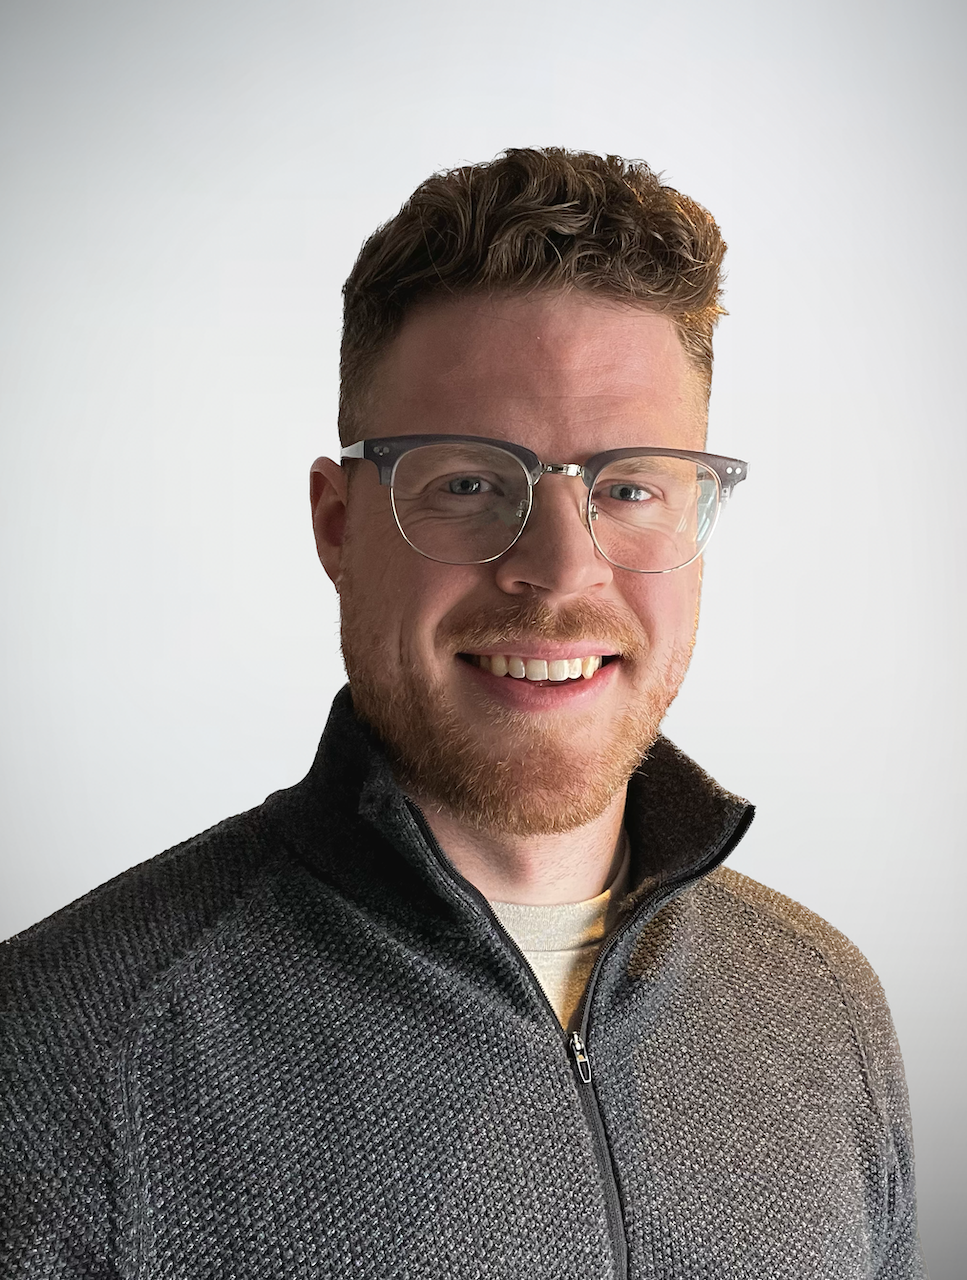
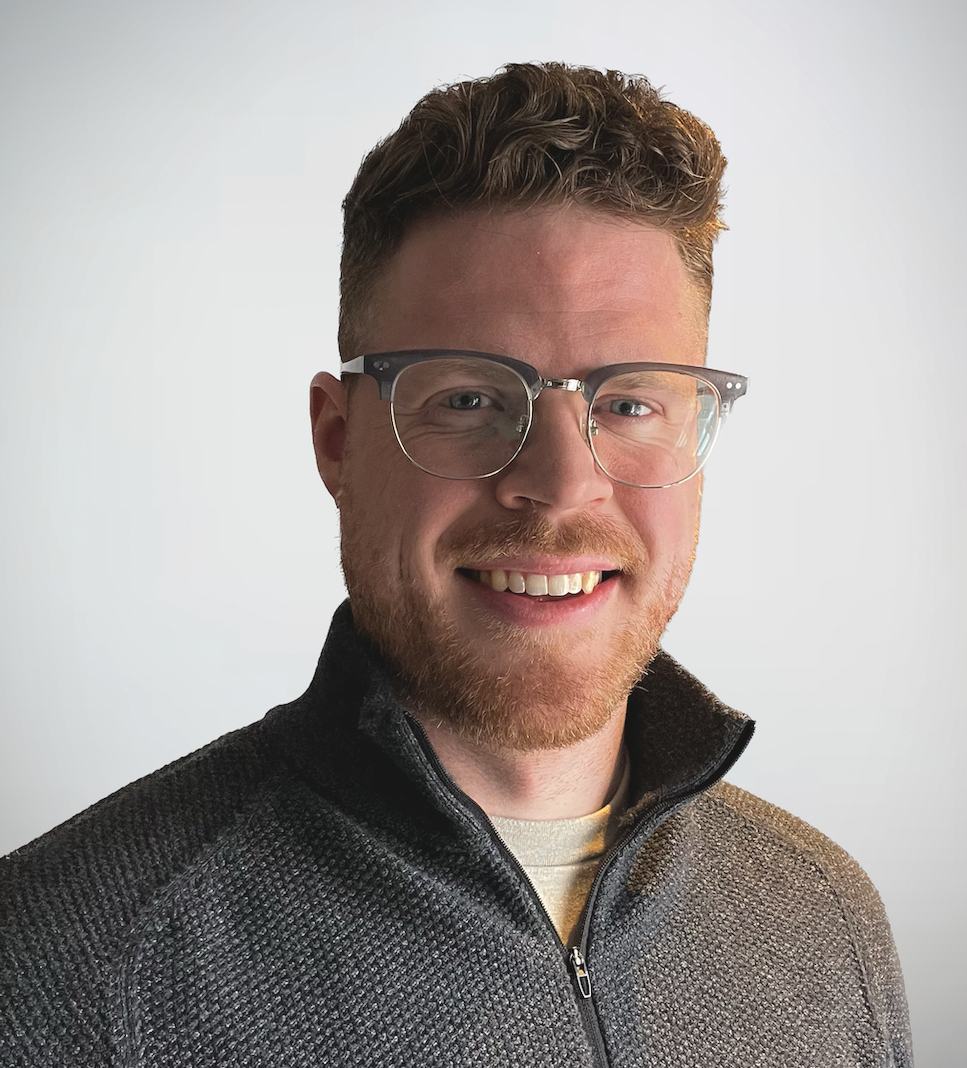
profile page updates

diff --git a/_sass/_profile.scss b/_sass/_profile.scss
@@ -1,6 +1,6 @@
 .profile {
     img {
-        box-shadow: 0 0 5px $grey-color;
+        // box-shadow: 0 0 5px $grey-color;
         width: 75%;
         margin-left: 10px;  
         // padding-left: 10px;

diff --git a/_pages/about.md b/_pages/about.md
@@ -1,11 +1,11 @@
 ---
 layout: about
 permalink: /
-title: <h1>Dan Gale</h1>
+title: <h1>Dan Gale, Ph.D.</h1>
 description: Neuroscience | Data Science | Software Development
 
 profile:
-  align: right
+  align: left
   image: profile.png
 news: false
 social: true
